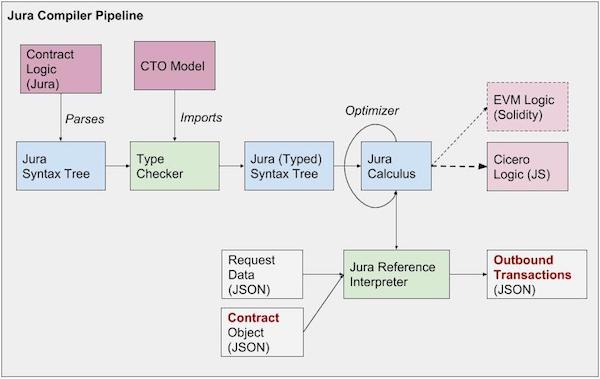
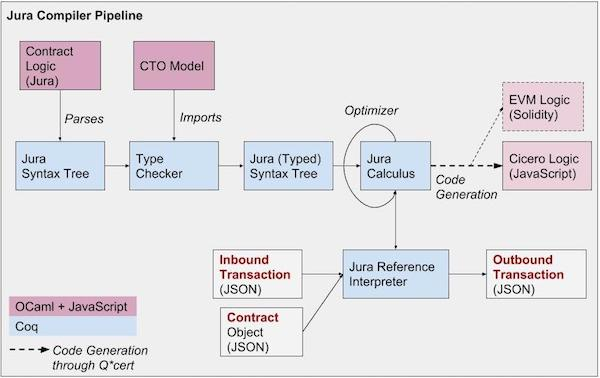
Architecture

Changed region(s): [[0.0, 0.0, 1.0, 1.0], [0.21, 0.1164, 0.36, 0.2328]]

diff --git a/docs/README.md b/docs/README.md
@@ -43,13 +43,17 @@ One of the use for the Jura compiler is as an embedded component inside [Cicero]
 
 ![alt text](./juraincicero.jpg "Jura inside Cicero")
 
-## Implementation
+## Verification
 
 The source code for the Jura compiler includes a mechanization in Coq
-from which (part of) the compiler is extracted. A browsable version of
+from which part of the compiler is extracted. A browsable version of
 the Coq code (generated using
 [coq2html](https://github.com/xavierleroy/coq2html)) is available in
 [specification](specification/index.md).
+
+Ultimately, one of our goals is to provide a full formal semantics for
+Jura in Coq, and prove correct as much of the compilation pipeline as
+possible.
 
 ## Caveats
 
